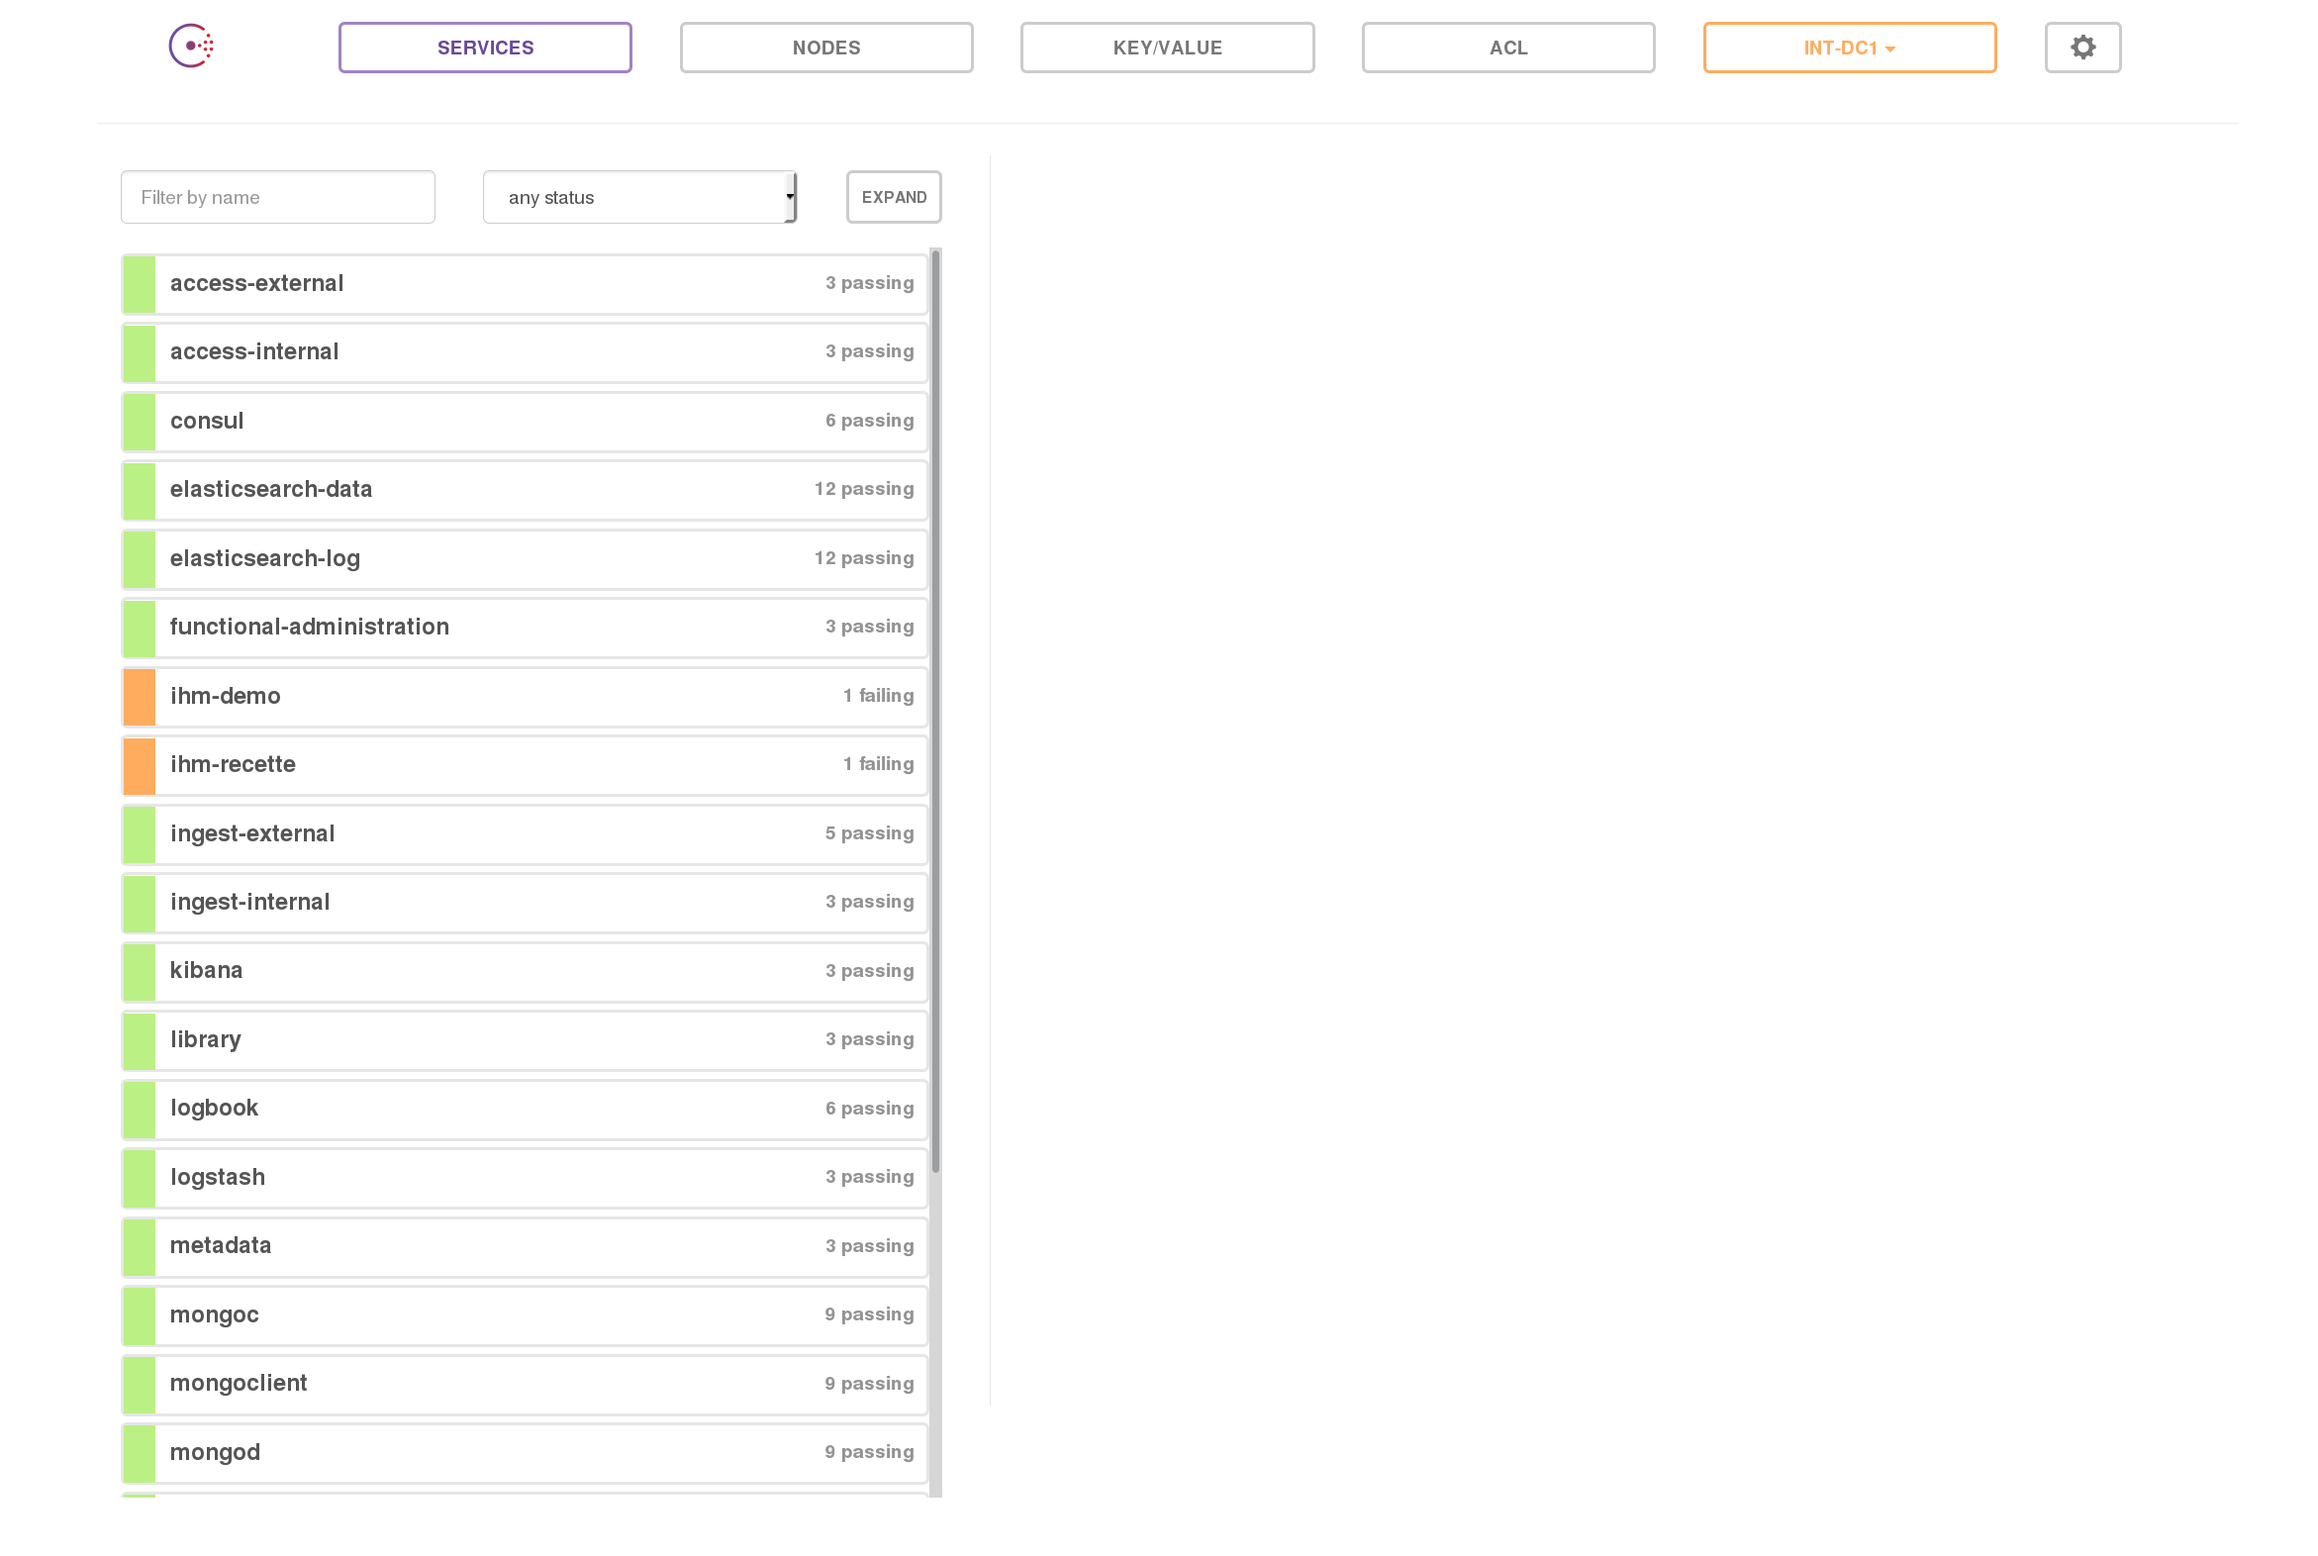
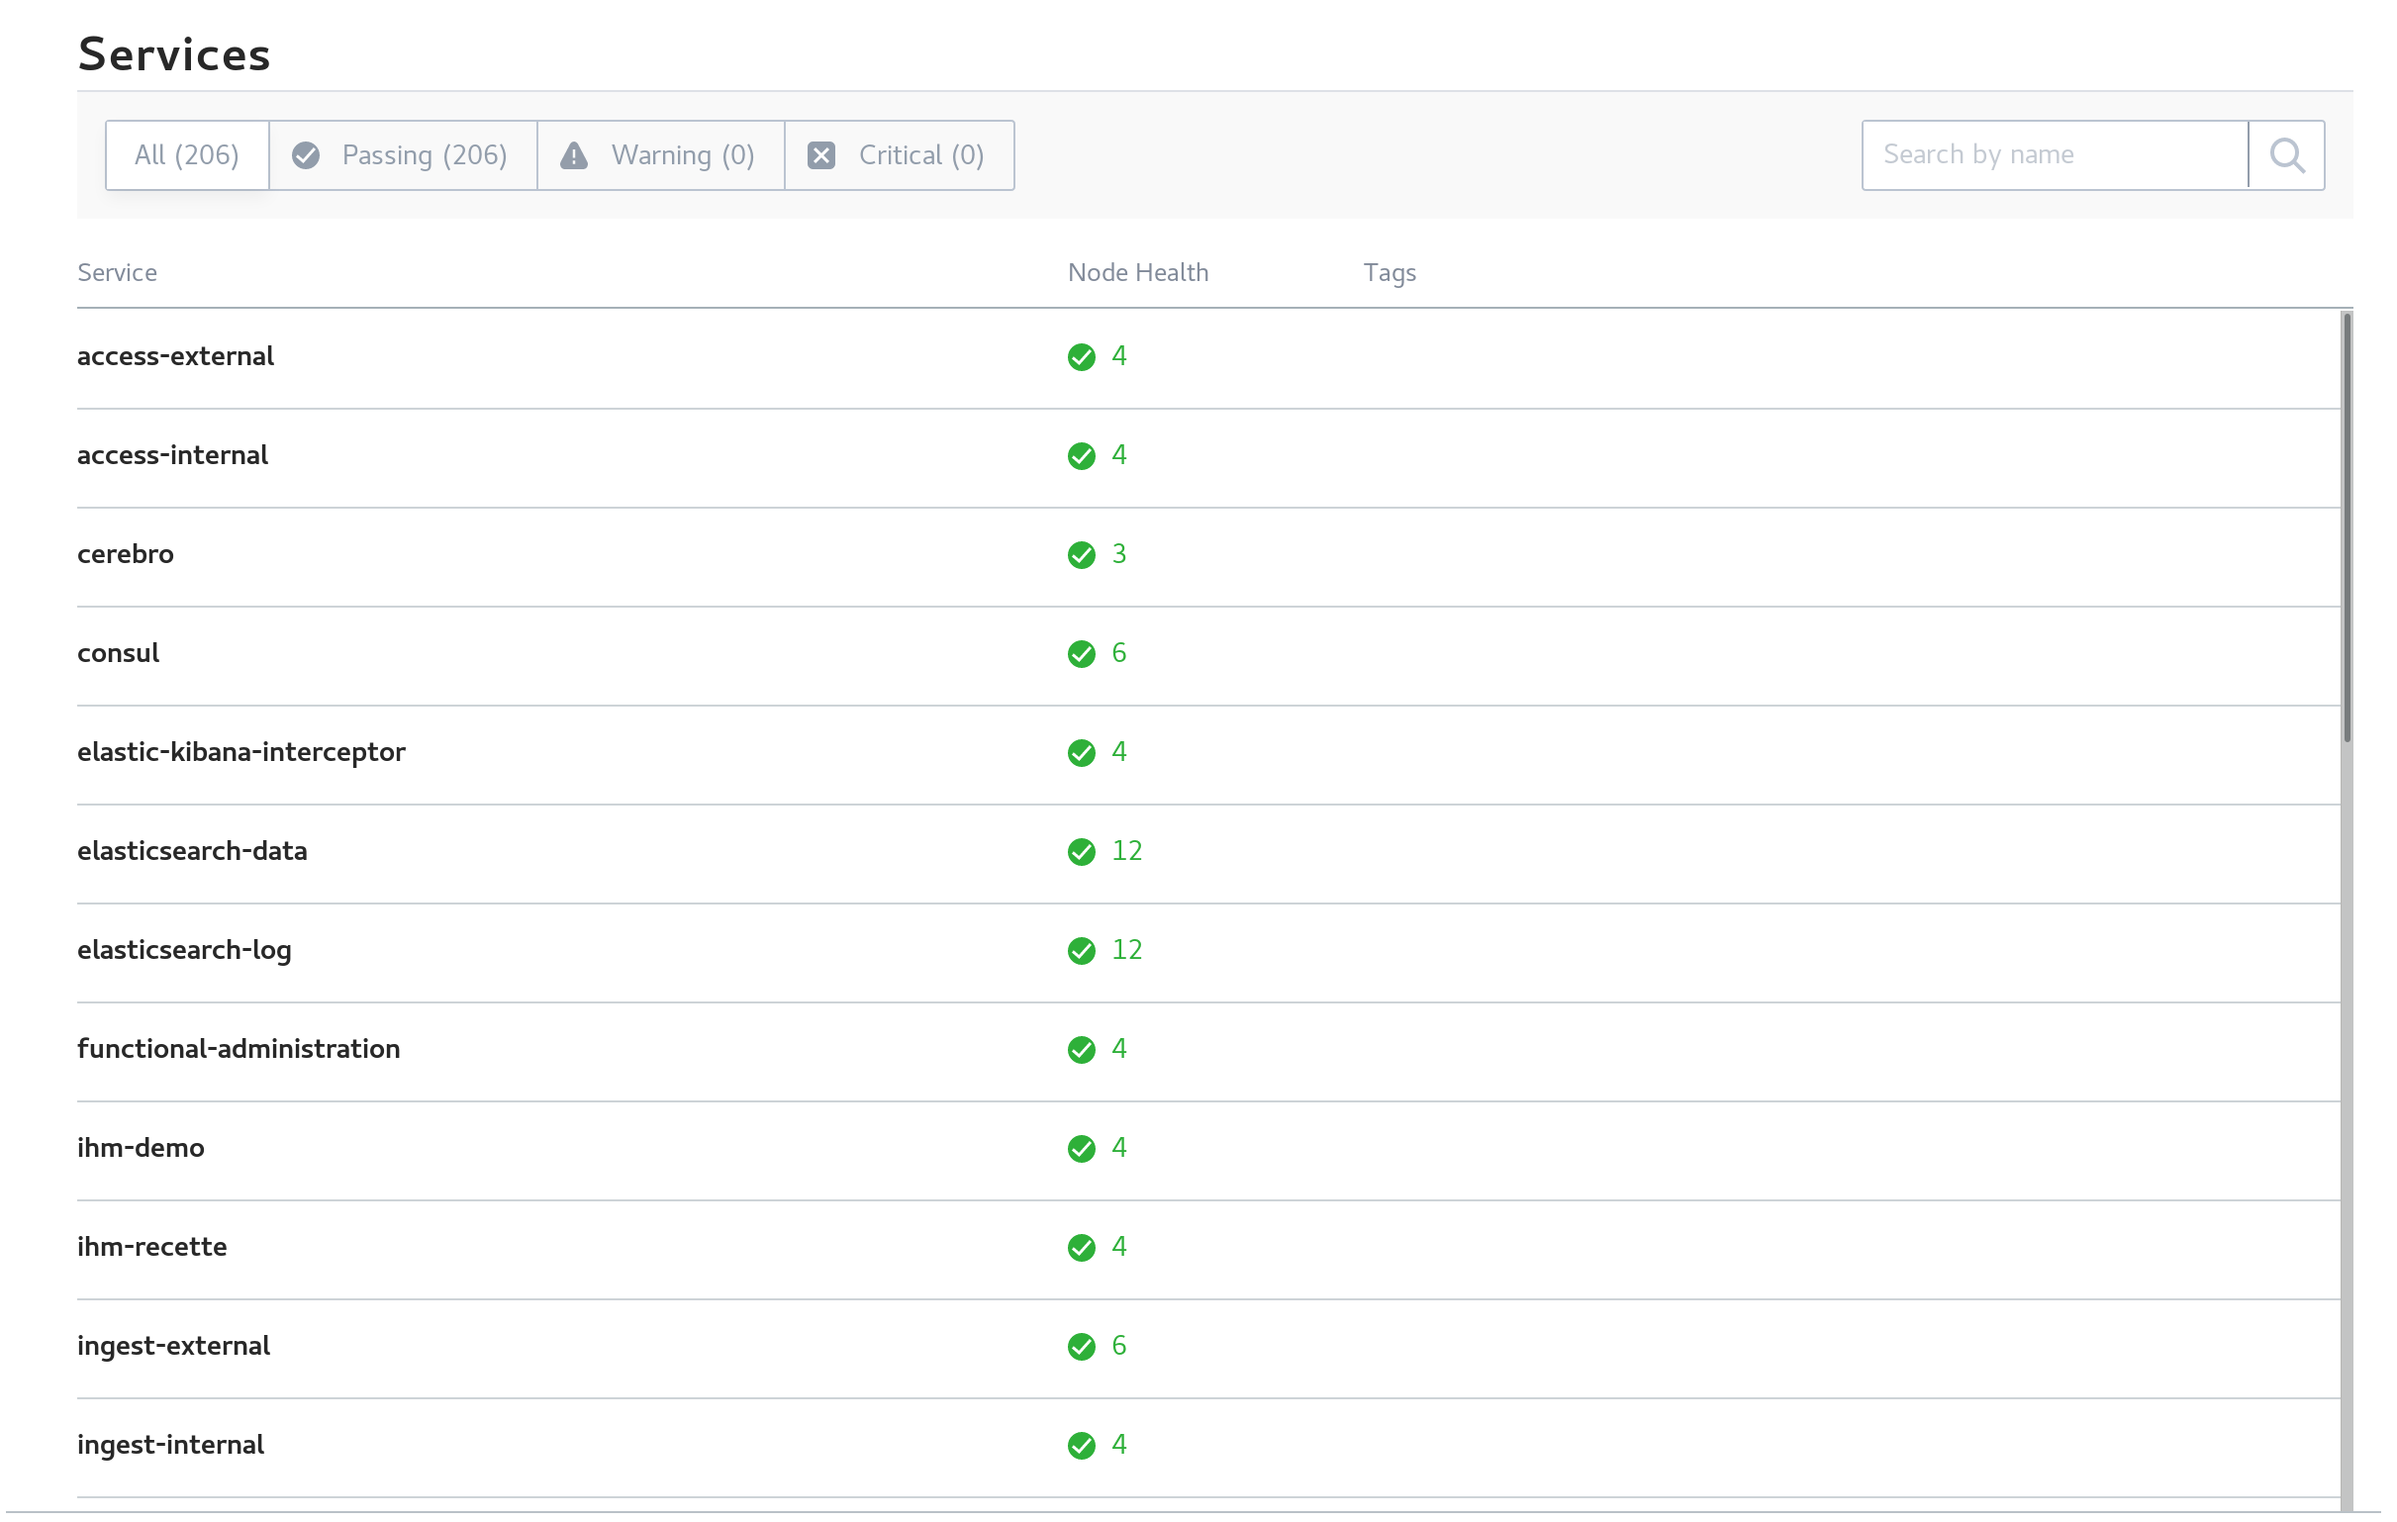
small fix in troubleshoot ; prtscreen is consul 1.0

diff --git a/doc/fr/exploitation/troubleshoot/analyse.rst b/doc/fr/exploitation/troubleshoot/analyse.rst
@@ -10,7 +10,7 @@ Se connecter à l'IHM de Consul et recenser les états des composants de la solu
 
 .. image:: images/consul_check.png
 
-A l'heure actuelle, tous les composants, excepté ihm-demo (couleur orange), doivent avoir un statut de couleur verte. Si ce n'est pas le cas :
+A l'heure actuelle, tous les composants doivent avoir un statut de couleur verte. Si ce n'est pas le cas :
 
 1. seul un composant est KO, alors redémarrer le composant incriminé
 2. si plusieurs services sont KO, suivre la procédure de redémarrage de VITAM
